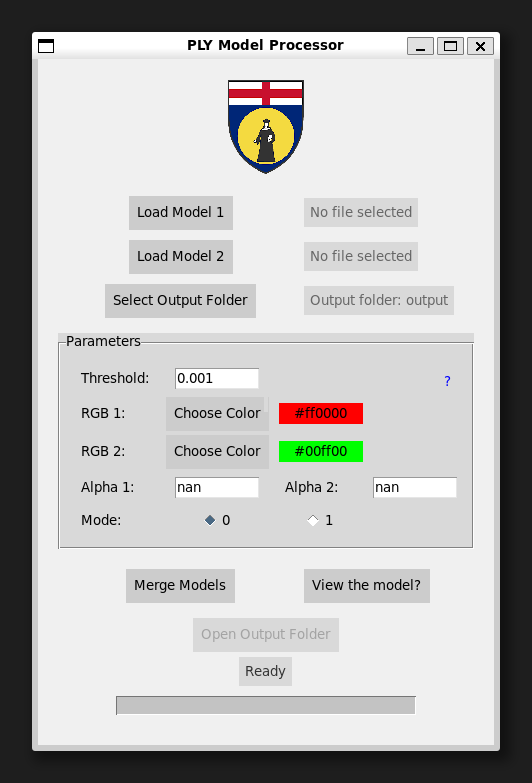
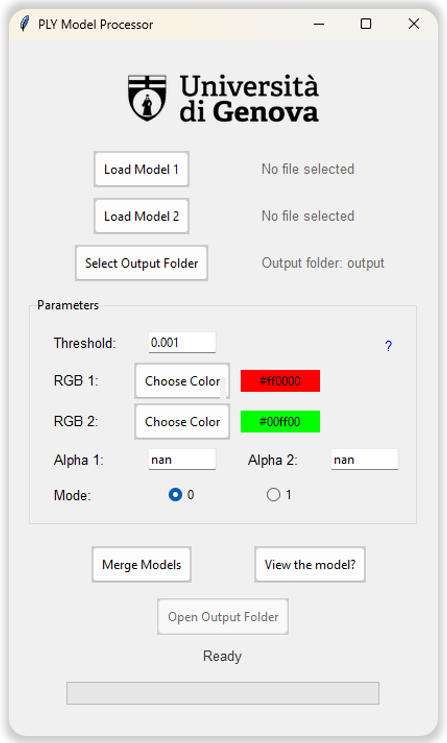
Updated README and Images

diff --git a/README.md b/README.md
@@ -71,7 +71,9 @@ Place your PLY files (standard or Gaussian Splatting) in the input folder (`data
     python main.py
   ```
 
-<img src="images/GUI_Example.png" alt="Interactive GUI" width="300"/>
+<p align="center">
+  <img src="images/GUI_Example.png" alt="Interactive GUI" width="300"/>
+</p>
 
 - Click on the buttons `Load Model 1` and `Load Model 2` in order to choose the two Splat PLY files to confront.
 - Customize each Parameter (optional).
@@ -97,16 +99,22 @@ We took the [Satiro e Baccante](https://poly.cam/capture/5621D36B-36BF-4655-AE5C
 
 - The ICP algorithm aligns the two models.
 
-| <img src="images/ICP_Before.png" alt="Before ICP" width="300"/> | <img src="images/ICP_After.png" alt="After ICP" width="200"/> |
-|-------------------------------------------------------------|---------------------------------------------------------------|
-  
+<div align="center">
+
+  | <img src="images/ICP_Before.png" alt="Before ICP" width="300"/> | <img src="images/ICP_After.png" alt="After ICP" width="200"/> |
+  |-------------------------------------------------------------|---------------------------------------------------------------|
+
+</div>
+
 - Differences are highlighted:
   
   - Green: New structures or additions.
 
   - Red: Eroded or missing structures.
 
-<img src="images/Example_Broken.png" alt="Satiro e Baccante" width="300"/>
+<p align="center">
+  <img src="images/Example_Broken.png" alt="Satiro e Baccante" width="300"/>
+</p>
 
 ## Output
 
